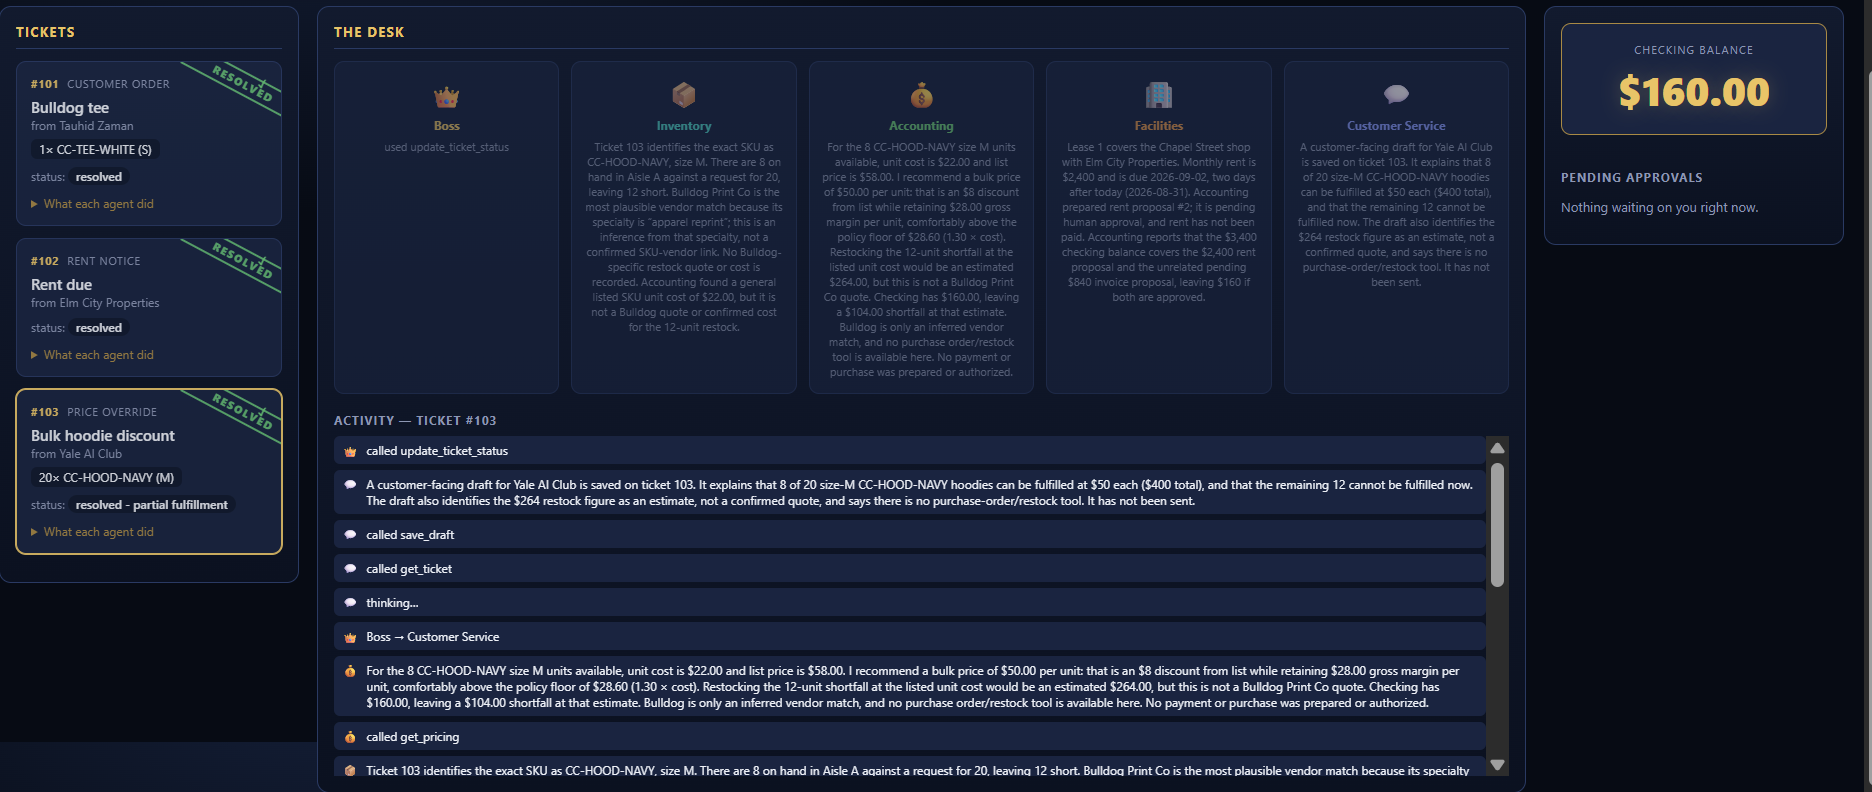
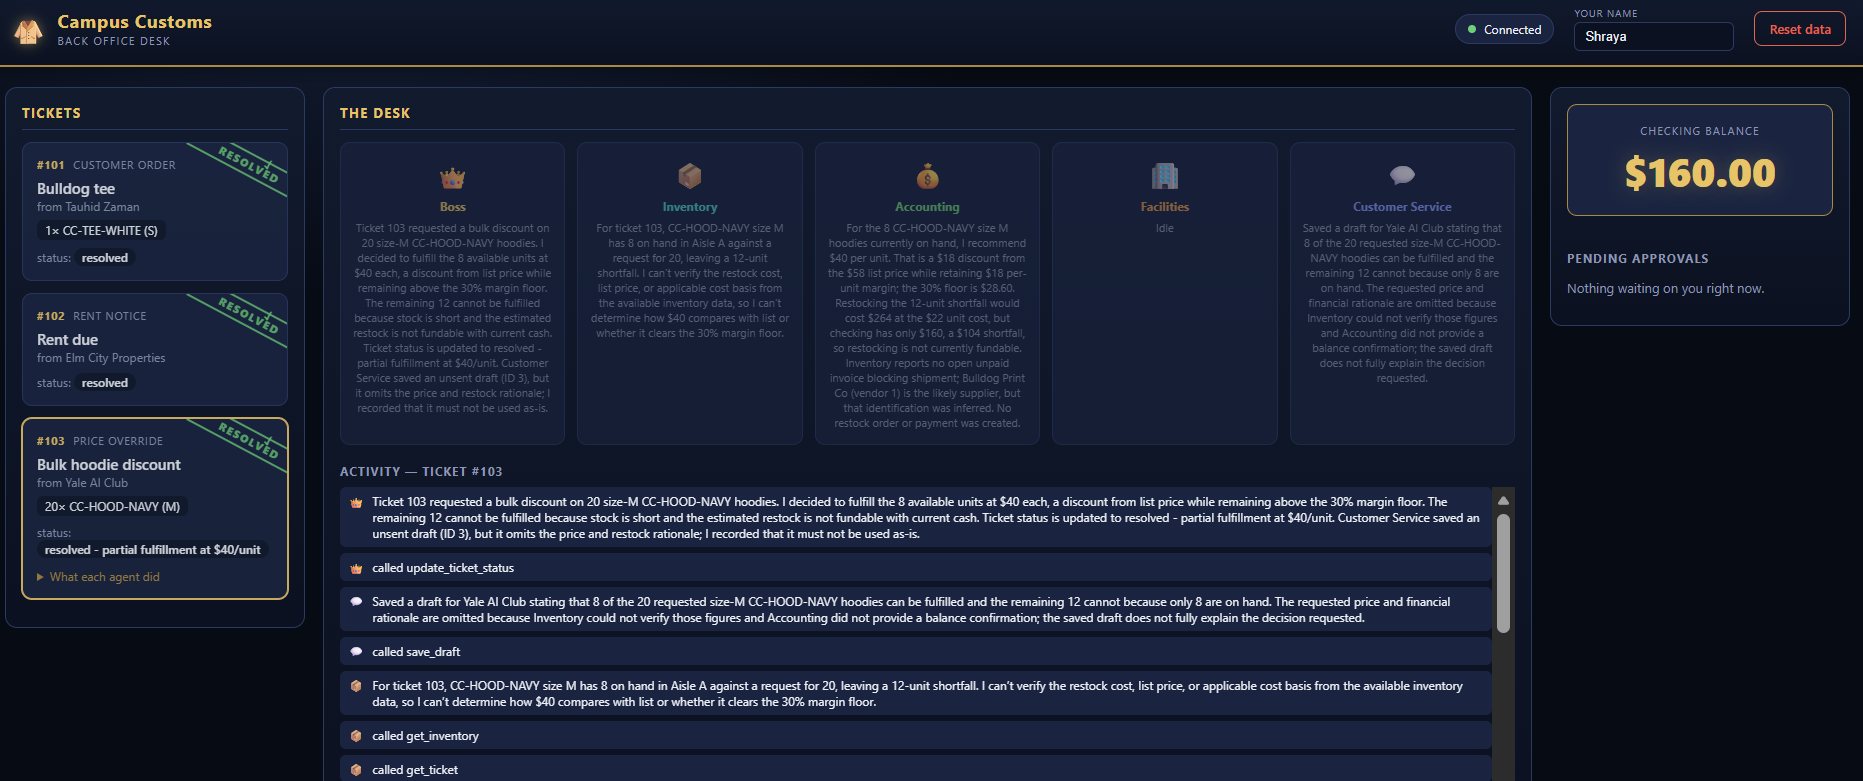
Fix ticket 103 price inconsistency ($50 -> $40) and update its screenshot
resolved_board.html and desk_tickets.html's Cash tab both still showed the
$50/unit price from an earlier run of ticket 103; the database and audit
trail confirm $40/unit as the actual final result. Fixed both, and the
ticket 103 screenshot has been replaced with one showing the real final
state, so no stale-data disclaimer is needed.

diff --git a/output/desk_tickets.html b/output/desk_tickets.html
@@ -289,7 +289,7 @@
       <ul>
         <li><strong>Ticket 101</strong>: &minus;$840.00 - invoice 501 (Bulldog Print Co, CC-TEE-WHITE rush reprint), payment proposal #1, approved by Shraya.</li>
         <li><strong>Ticket 102</strong>: &minus;$2,400.00 - rent for lease 1 (Chapel Street shop, Elm City Properties), payment proposal #2, approved by Shraya.</li>
-        <li><strong>Ticket 103</strong>: $0.00 - no payment proposal was created; the final decision (partial fulfillment at $50/unit, decline the restock) involves no cash movement at all.</li>
+        <li><strong>Ticket 103</strong>: $0.00 - no payment proposal was created; the final decision (partial fulfillment at $40/unit, decline the restock) involves no cash movement at all.</li>
       </ul>
     </div>
 

diff --git a/output/resolved_board.html b/output/resolved_board.html
@@ -99,7 +99,7 @@
 
   <div class="ticket-block">
     <h2>Ticket 103 &mdash; Bulk hoodie discount</h2>
-    <p class="meta"><span class="status">resolved - partial fulfillment</span> &middot; 8 of 20 fulfilled at $50.00 each, no payment involved</p>
+    <p class="meta"><span class="status">resolved - partial fulfillment at $40/unit</span> &middot; 8 of 20 fulfilled, no payment involved</p>
     <img src="Ticket 103 - resolved.png" alt="Ticket 103 resolved screenshot"
          onerror="this.outerHTML='&lt;p class=&quot;missing&quot;&gt;Missing: Ticket 103 - resolved.png&lt;/p&gt;'">
   </div>

diff --git a/AI_prompts.md b/AI_prompts.md
@@ -452,3 +452,19 @@ go ahead, commit it, here is the url: https://github.com/Shraya-Sapru/campus-cus
 **What was lacking after the first prompt:**
 
 Nothing - the report surfaced two real gaps (missing .env.example and README.md, both created) and one structural issue worth flagging before committing: backend/model.py was loading .env from outside this project folder entirely (two directories up, in the shared AI Foundations/.env), which would leave a standalone clone with nowhere sensible to put a .env. Fixed by pointing it at this project's own root, creating a local gitignored .env here (key never printed), and verifying the backend still started correctly before reporting. After approval: initialized git, committed (71 files, confirmed .env/.venv/node_modules/__pycache__ all correctly absent), verified the target repo was empty before pushing (avoided any force-push risk), pushed to main, then added and pushed output/github_url.txt in a second small commit. Confirmed afterward that .env never entered git history at any point.
+
+**Follow-up prompt 2:**
+
+I am running some final checks: Please check the ticket 103 outcome across all my files and make them consistent with the final run. output/resolved_board.html says 8 of 20 fulfilled at $50.00 each, but I think the final run priced it at $40. Compare resolved_board.html, resolved_tickets.json, the Actual and Reflection sections of desk_tickets.html, and the audit trail, and tell me which price the final run really used. Then fix any file that disagrees, keeping the evidence honest. Also confirm the three screenshot files named in resolved_board.html exist in output/ with exactly those names, and tell me whether the 103 screenshot matches the final run. Push the fixes and log this prompt in AI_prompts.md.
+
+**Follow-up prompt 3 (sent mid-turn):**
+
+wait I can click the screenshot again and put it in the folder, would that be better?
+
+**Follow-up prompt 4:**
+
+I replaced the screenshot, check it now
+
+**What was lacking after follow-up prompt 2:**
+
+The database and audit trail confirmed $40/unit as the true final price (the live ticket status is literally "resolved - partial fulfillment at $40/unit"). Found two disagreements, not one: output/resolved_board.html's caption said $50, and a second spot you hadn't flagged - output/desk_tickets.html's Cash tab itemization for ticket 103 - also still said $50/unit (the Actual tab itself was already correct from an earlier fix; the Cash tab bullet had been missed). All three screenshot files existed with the exact referenced names. The ticket 103 screenshot itself genuinely showed the earlier $50/unit run (confirmed both by file timestamp, predating the final run, and by reading the image directly) - rather than just changing the caption number to $40 while leaving a screenshot that visibly said $50 (which would have created a new, worse contradiction within the same file), added an honest disclosure note instead. After you replaced the screenshot with a fresh one showing the real $40/unit state, removed that disclosure note and the now-unneeded CSS for it, restoring the clean format matching tickets 101/102.
